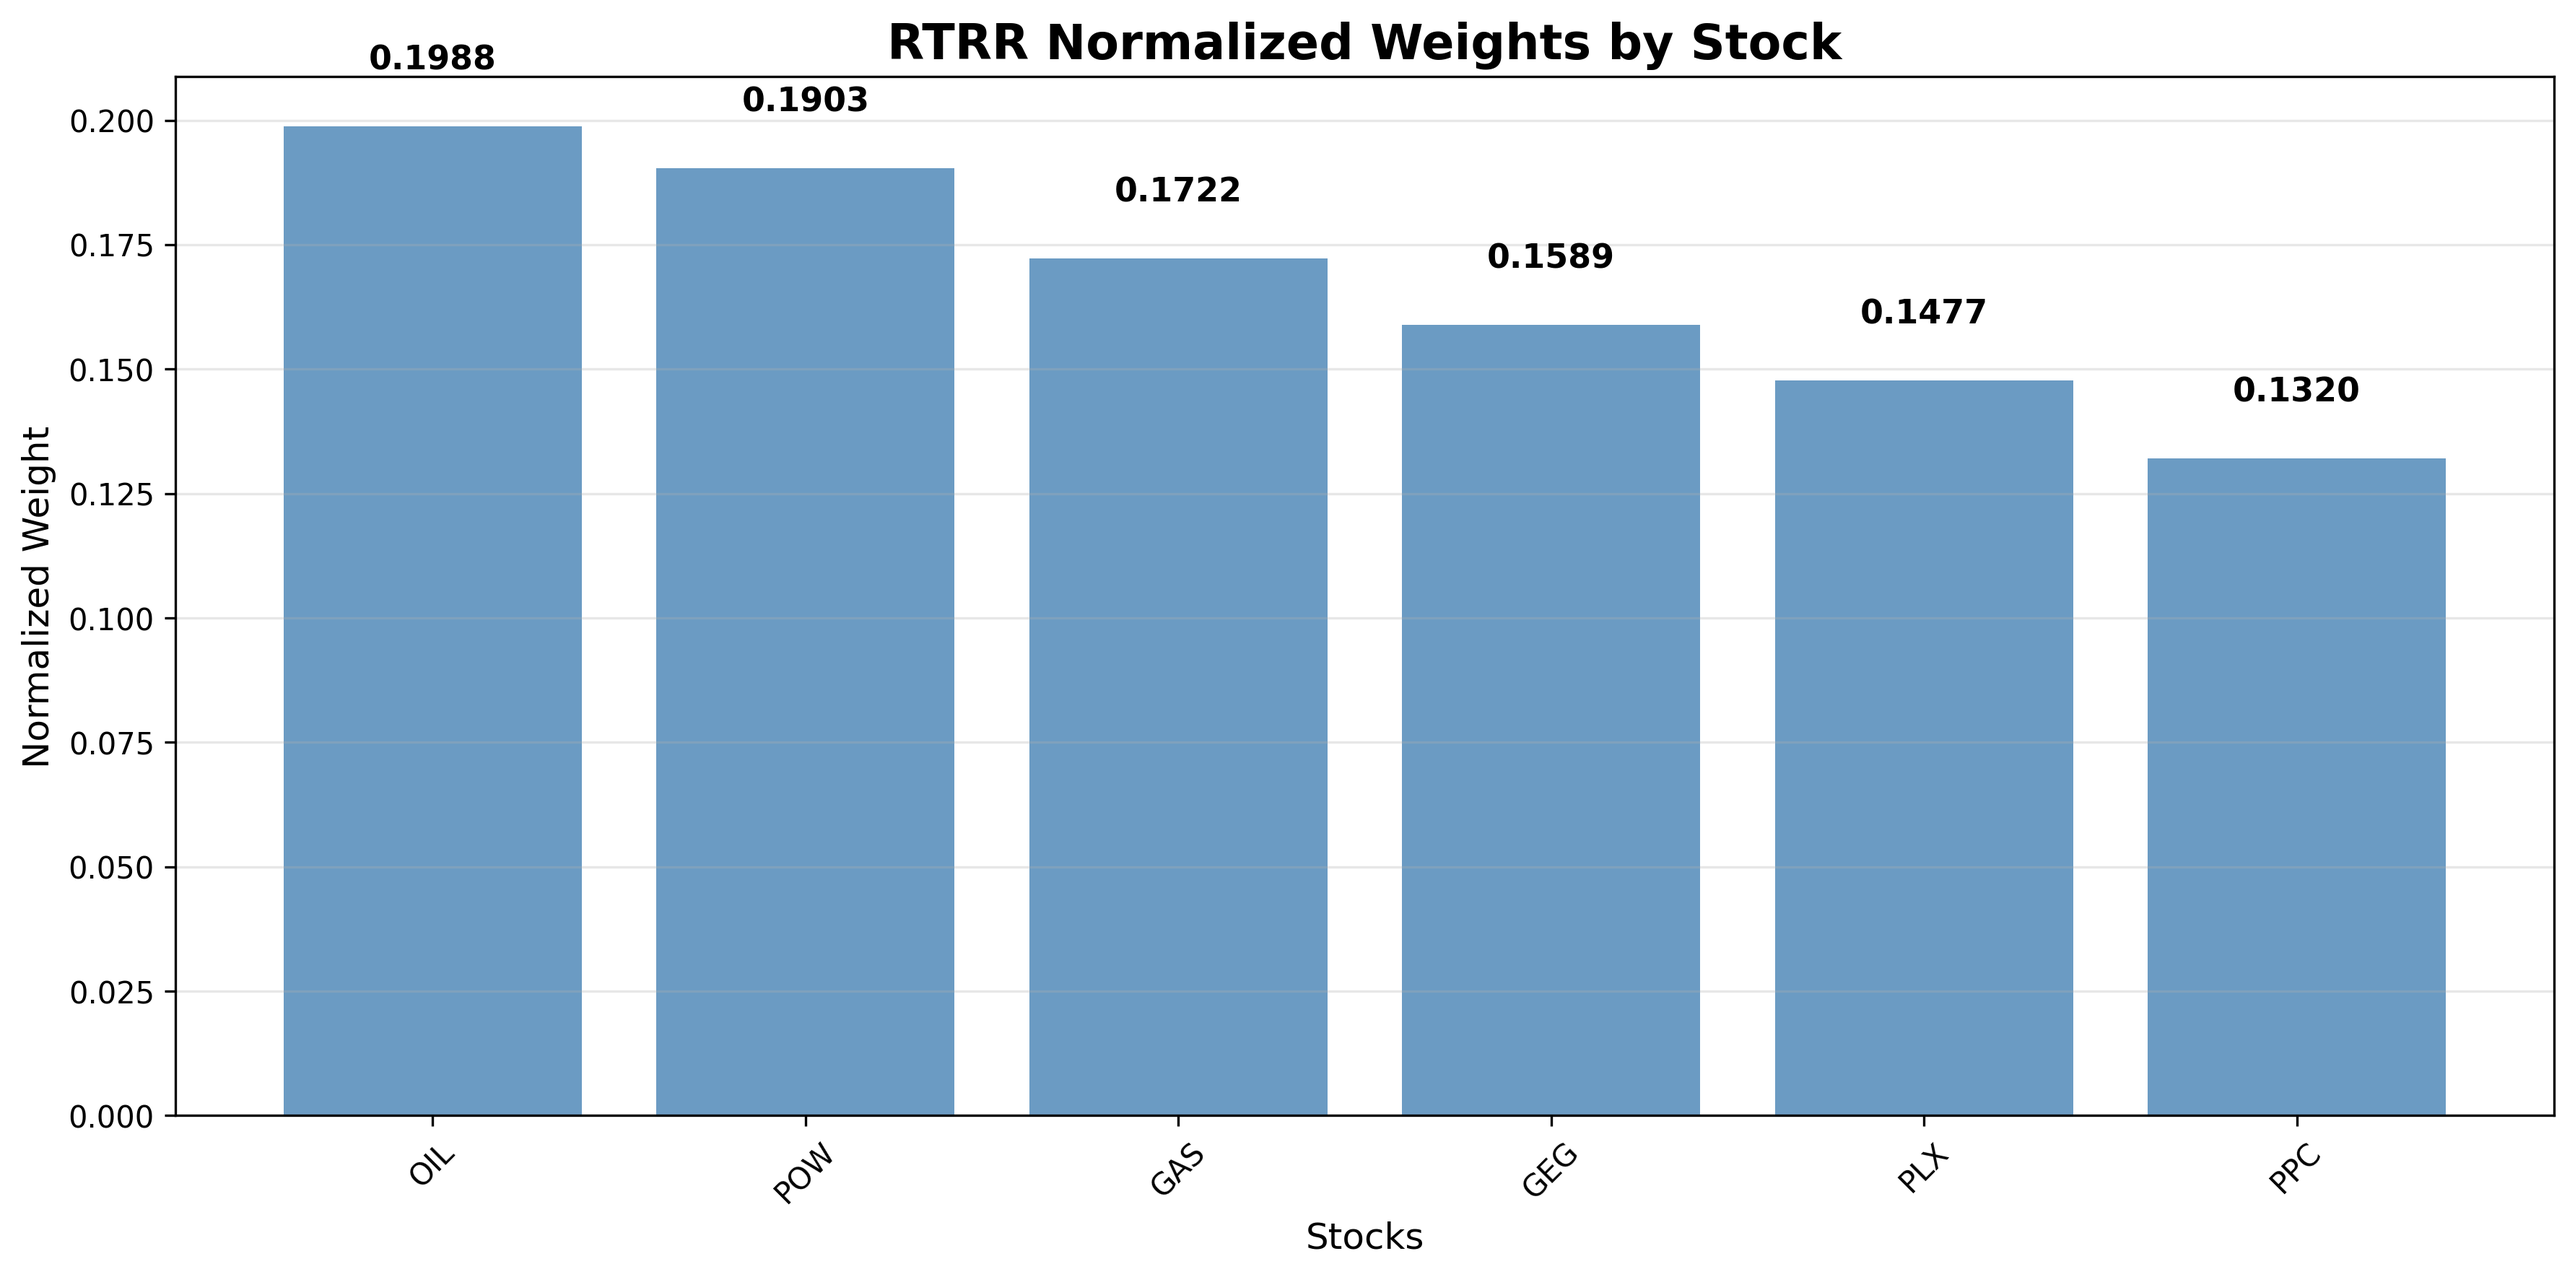
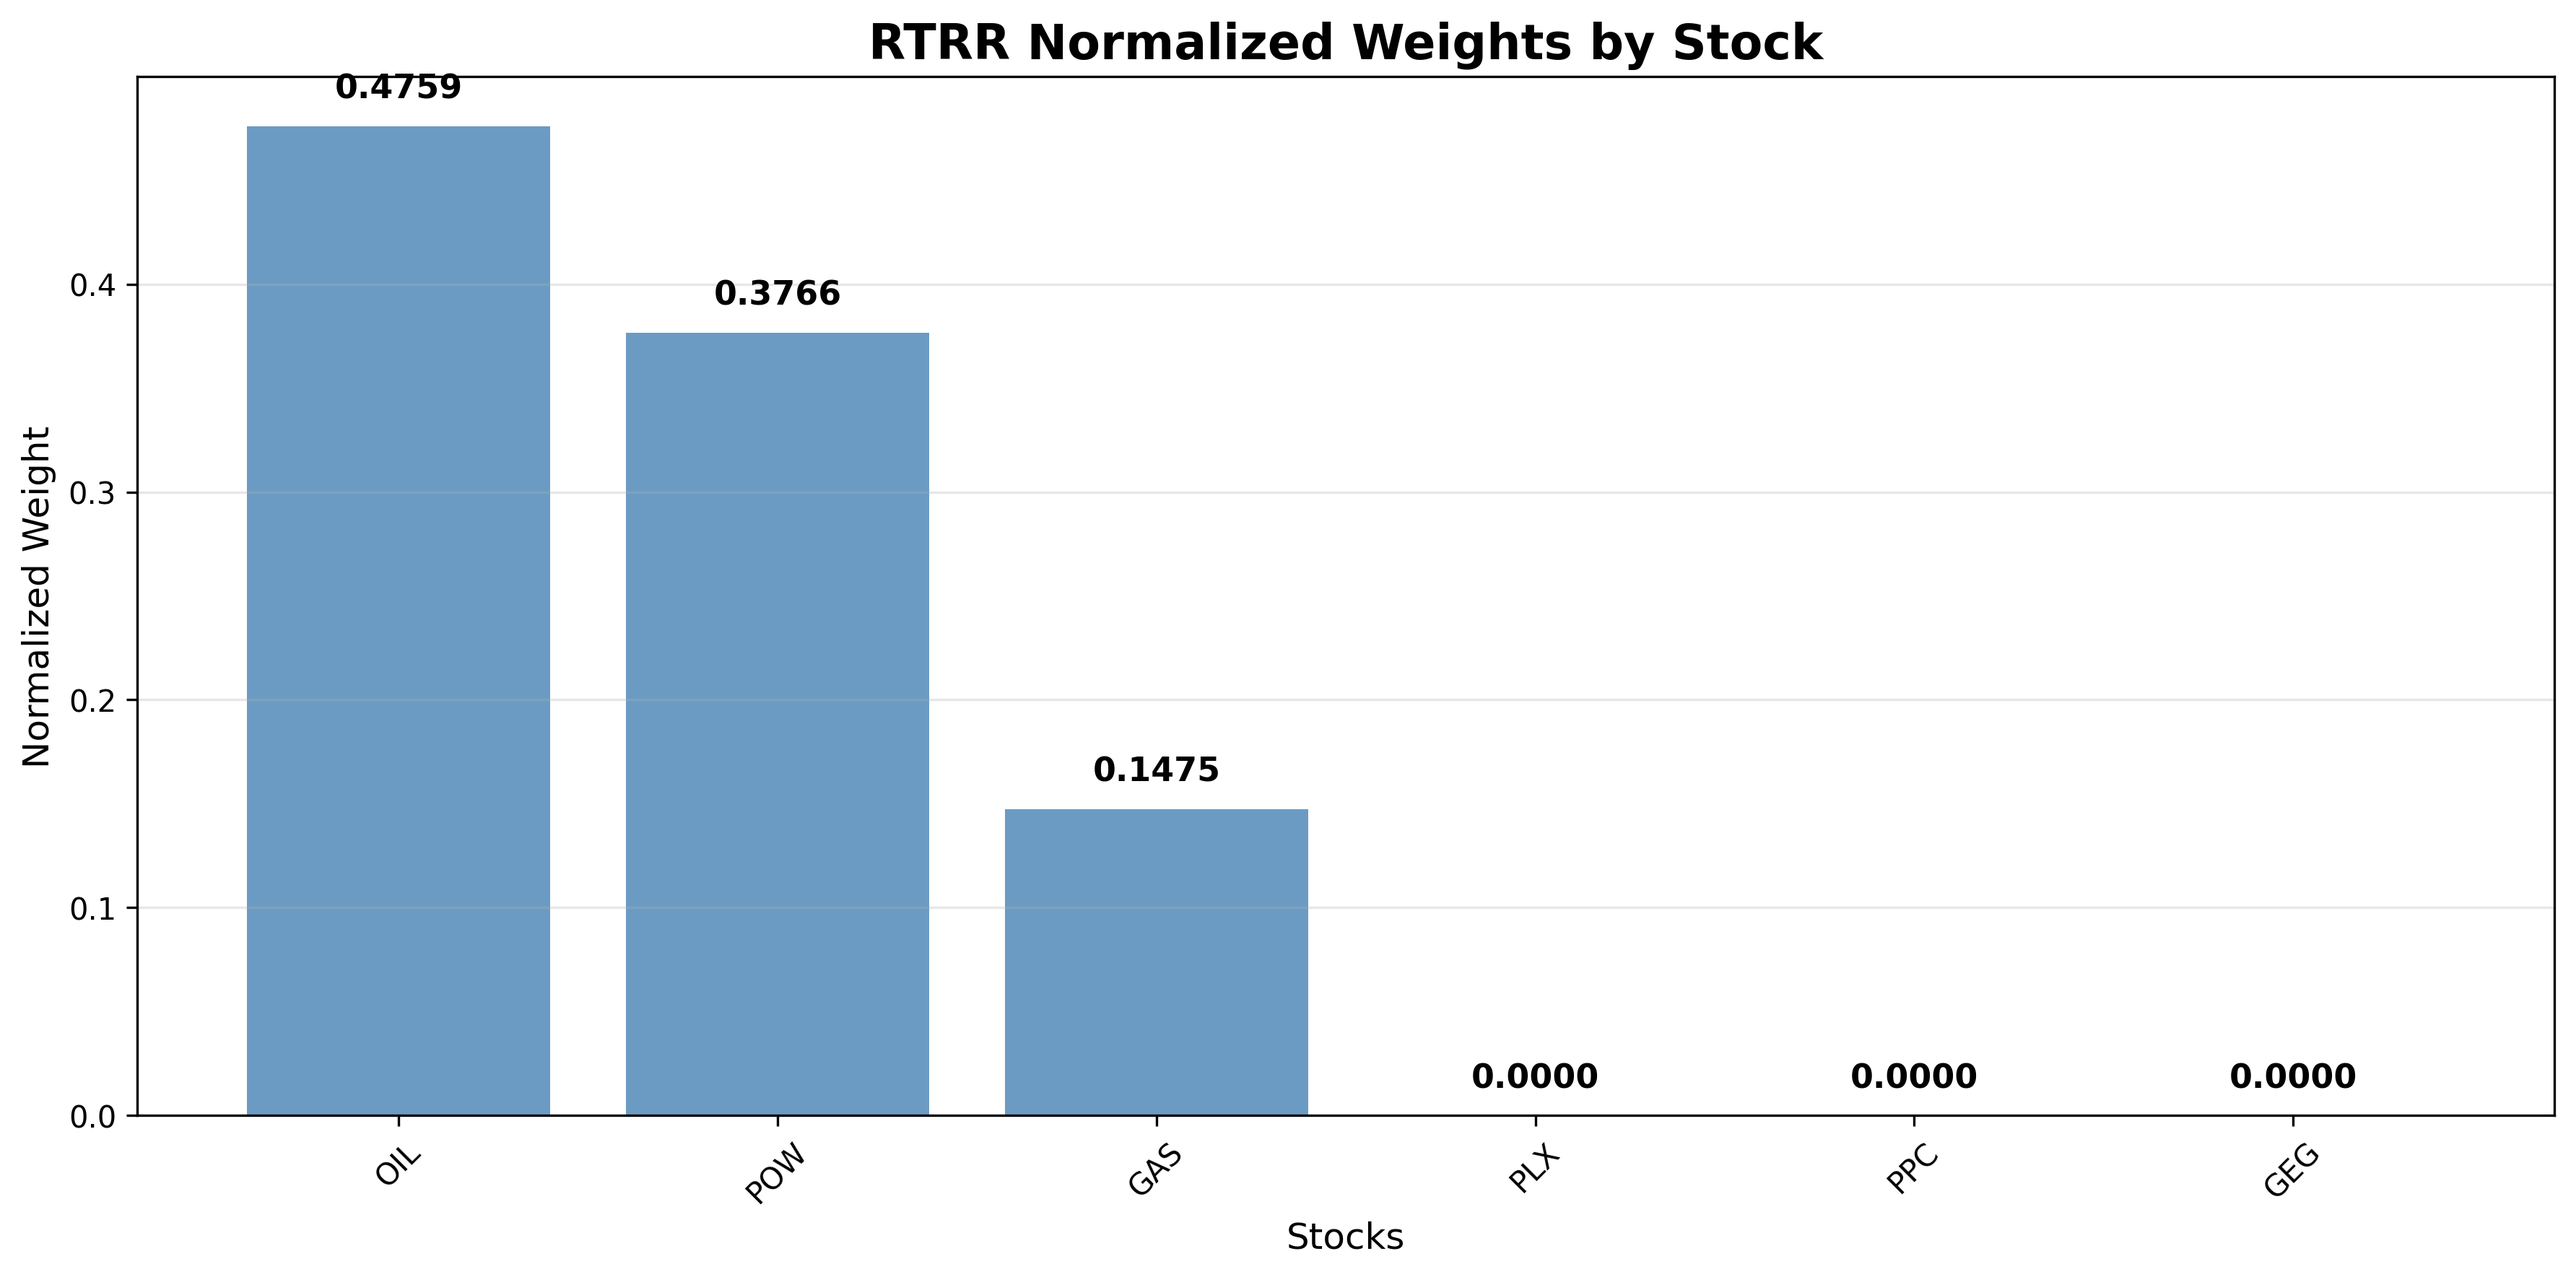
update

diff --git a/quantitative_flow_analysis.py b/quantitative_flow_analysis.py
@@ -242,6 +242,39 @@ print(risk_df.sort_values(by='Volatility', ascending=False))
 print(f"\n📊 Tạo biểu đồ Annual Volatility...")
 
 plt.figure(figsize=(12, 6))
+daily_volatility_data = risk_df['Volatility'].sort_values(ascending=False)
+
+bars = plt.bar(daily_volatility_data.index, daily_volatility_data.values, color='steelblue', alpha=0.7)
+
+plt.title('Annual Volatility by Stock', fontsize=16, fontweight='bold')
+plt.xlabel('Stocks', fontsize=12)
+plt.ylabel('Annual Volatility', fontsize=12)
+plt.xticks(rotation=45)
+plt.grid(True, alpha=0.3, axis='y')
+
+# Add value labels on bars with exact 6 decimal places
+for bar, value in zip(bars, daily_volatility_data.values):
+    plt.text(bar.get_x() + bar.get_width()/2, bar.get_height() + 0.0005,
+            f'{value:.6f}', ha='center', va='bottom', fontweight='bold', fontsize=11)
+
+plt.tight_layout()
+plt.savefig('charts/annual_volatility_column_chart.png', dpi=300, bbox_inches='tight')
+plt.show()
+
+print(f"\n📊 Annual Volatility Values:")
+print("-" * 50)
+for ticker, vol in daily_volatility_data.items():
+    print(f"   • {ticker}: {vol:.6f}")
+
+print(f"\n✅ Annual Volatility chart completed!")
+
+# =============================================================================
+# ANNUAL VOLATILITY CHART
+# =============================================================================
+
+print(f"\n📊 Tạo biểu đồ Annual Volatility...")
+
+plt.figure(figsize=(12, 6))
 volatility_data = risk_df['Volatility'].sort_values(ascending=False)
 
 bars = plt.bar(volatility_data.index, volatility_data.values, color='steelblue', alpha=0.7)
@@ -367,9 +400,16 @@ print(f"   • Worst RTRR: {rtrr_stocks.min():.4f} ({rtrr_stocks.idxmin()})")
 print(f"\n📊 Tạo biểu đồ RTRR Normalized Weights...")
 
 # Chuẩn hóa RTRR thành trọng số (weights)
-# Sử dụng softmax normalization để tạo trọng số phân phối
-rtrr_normalized = np.exp(rtrr_stocks) / np.sum(np.exp(rtrr_stocks))
-rtrr_weights = rtrr_normalized
+# Chỉ giữ lại những RTRR dương (loại bỏ RTRR âm)
+rtrr_positive = rtrr_stocks[rtrr_stocks > 0]
+print(f"   📊 Loại bỏ {len(rtrr_stocks) - len(rtrr_positive)} cổ phiếu có RTRR âm")
+print(f"   📊 Giữ lại {len(rtrr_positive)} cổ phiếu có RTRR dương: {list(rtrr_positive.index)}")
+
+# Sử dụng softmax normalization cho các RTRR dương
+rtrr_weights = pd.Series(0.0, index=rtrr_stocks.index)  # Khởi tạo tất cả = 0
+if len(rtrr_positive) > 0:
+    rtrr_normalized = rtrr_positive / np.sum(rtrr_positive)
+    rtrr_weights[rtrr_positive.index] = rtrr_normalized
 
 plt.figure(figsize=(12, 6))
 rtrr_weights_sorted = rtrr_weights.sort_values(ascending=False)
@@ -1332,6 +1372,29 @@ def create_visualization_charts(quant_results, factor_results, portfolio_results
     print(f"   • Weight range: {latest_weights.max() - latest_weights.min():.4f}")
     print(f"   • Total weights sum: {latest_weights.sum():.4f}")
     
+    # Vẽ biểu đồ Cap-Weighted Portfolio Weights
+    plt.figure(figsize=(12, 6))
+    cap_weights_sorted = latest_weights.sort_values(ascending=False)
+    
+    bars = plt.bar(cap_weights_sorted.index, cap_weights_sorted.values, color='steelblue', alpha=0.8)
+    
+    plt.title('Cap-Weighted Portfolio Weights by Stock', fontsize=16, fontweight='bold')
+    plt.xlabel('Stocks', fontsize=12)
+    plt.ylabel('Weight', fontsize=12)
+    plt.xticks(rotation=45)
+    plt.grid(True, alpha=0.3, axis='y')
+    
+    # Add value labels on bars
+    for bar, value in zip(bars, cap_weights_sorted.values):
+        plt.text(bar.get_x() + bar.get_width()/2, bar.get_height() + 0.01,
+                f'{value:.6f}', ha='center', va='bottom', fontweight='bold', fontsize=11)
+    
+    plt.tight_layout()
+    plt.savefig('charts/cap_weighted_weights_chart.png', dpi=300, bbox_inches='tight')
+    plt.show()
+    
+    print(f"\n✅ Cap-Weighted Weights chart saved!")
+    
     # Print Cap-Weighted Portfolio Weights for last month (July 2025)
     print(f"\n📊 CAP-WEIGHTED PORTFOLIO WEIGHTS (Last Month - July 2025):")
     print("=" * 60)
@@ -1506,7 +1569,9 @@ def create_visualization_charts(quant_results, factor_results, portfolio_results
     print("   • wealth_index_chart.png") 
     print("   • drawdown_analysis_chart.png")
     print("   • annual_return_chart.png")
+    print("   • daily_volatility_column_chart.png")
     print("   • annual_volatility_chart.png")
+    print("   • cap_weighted_weights_chart.png")
     print("   • cw_ew_comparison_chart.png")
     print("   • ml_predicted_annual_returns_line_chart.png")
     print("   • ml_predicted_annual_returns_heatmap.png")
